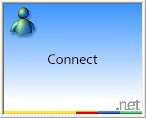
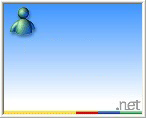
commit

Changed region(s): [[0.3288, 0.4576, 0.6849, 0.5593]]

diff --git a/css/style.css b/css/style.css
@@ -266,24 +266,24 @@ hr {
 .msn {
   position:fixed;
   bottom:0;
-  right:0;
+  right:4vw;
   z-index:999999999;
-  background-image:url('images/msn.png');
+  background-image:url('https://dex-donoe.github.io/images/msn.png');
   background-size:cover;
-  height:20vw;
+  height:12vw;
+  width:14.9vw;
 }
 
 .msn-button {
   font-family: 'GT Walsheim', sans-serif;
-  font-weight:600;
-  font-size:2vw;
-  font-style:oblique;
+  font-size:1.5vw;
   letter-spacing:1;
-  text-transform:uppercase;
-  width:20vw;
-  margin:0 1vw;
-  padding:1vw 0;
-  color:#ffffff;
+  line-height:12vw;
+  width:100%;
+  margin:0;
+  padding:0;
+  color:#666666;
+  border:0;
   background-color:transparent;
 }
 

diff --git a/index.html b/index.html
@@ -57,7 +57,7 @@
 
   <hr>
 
-  <input class="stop" id="stopButton" type="button" value="Stop All Sound" />
+  <input class="stop" id="stopButton" type="button" value="Sound Off" />
 
 </div>
 
